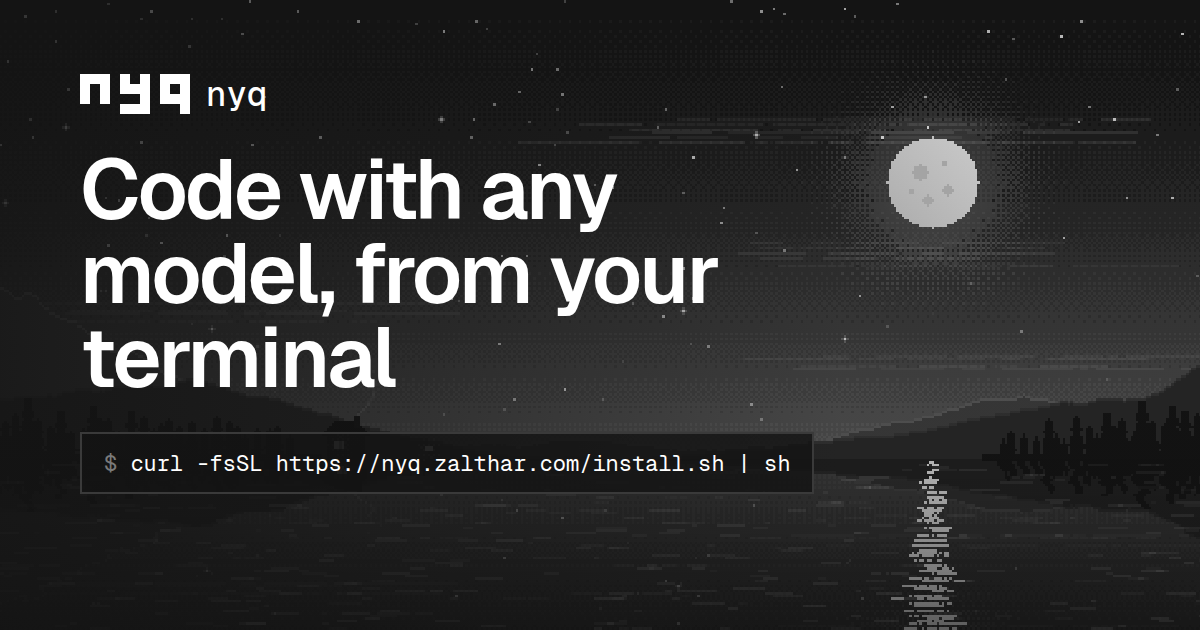
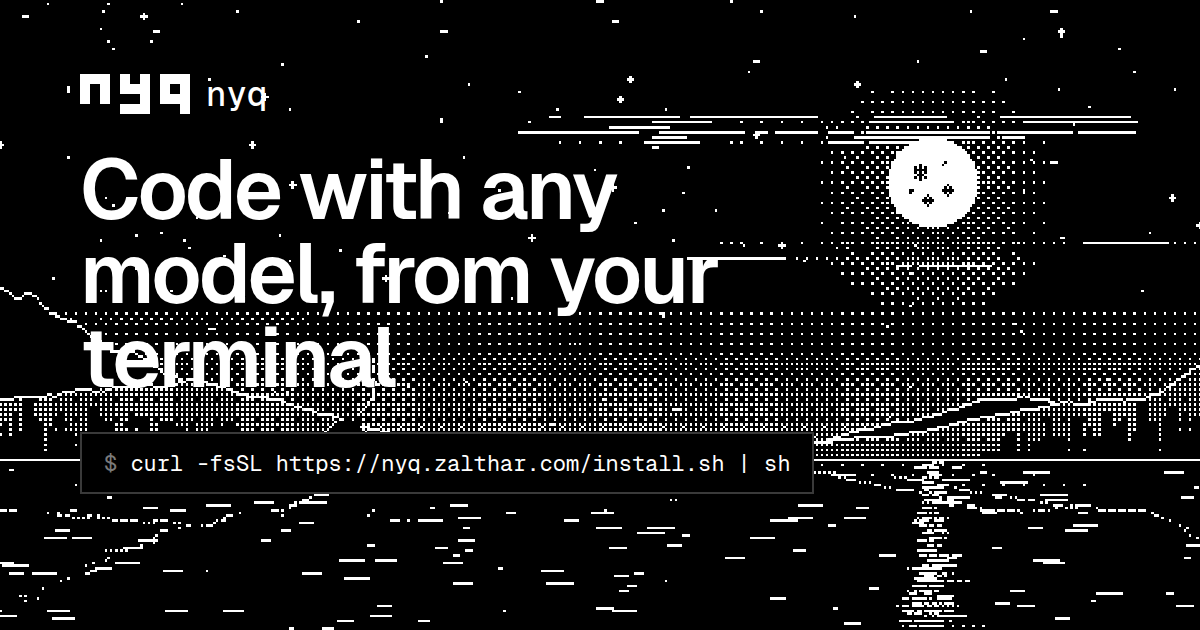
style(www): keep the website black and white
Pixel art is now 1-bit (solid shapes, ordered dither only for glows and the
horizon), surfaces and accents are pure black or white, and the translucent
fades and overlays that produced grays are gone.

diff --git a/www/src/styles/global.css b/www/src/styles/global.css
@@ -8,23 +8,23 @@
 
   /* Dark theme (the default). Light values are below, outside @theme. */
   --color-bg: #000000;
-  --color-surface: #181818;
-  --color-raised: #1f1f1f;
+  --color-surface: #000000;
+  --color-raised: #000000;
   --color-line: #272727;
   --color-line-strong: #313131;
 
   --color-fg: #ffffff;
-  --color-fg-hover: #e6e6e6;
+  --color-fg-hover: #ffffff;
   --color-muted: #9b9b9b;
   --color-faint: #6b6b6b;
 
-  /* Accent tones. The site is grayscale, so these are grays named after the
-     terminal colors they stand in for (diff additions bright, removals dim). */
-  --color-nyq-blue: #d4d4d4;
-  --color-nyq-green: #e5e5e5;
-  --color-nyq-red: #7d7d7d;
-  --color-nyq-yellow: #b8b8b8;
-  --color-nyq-magenta: #c6c6c6;
+  /* Accent tones. The site is black and white, so every accent is the
+     foreground color; the names match the terminal colors they stand in for. */
+  --color-nyq-blue: #ffffff;
+  --color-nyq-green: #ffffff;
+  --color-nyq-red: #ffffff;
+  --color-nyq-yellow: #ffffff;
+  --color-nyq-magenta: #ffffff;
 
   --ease-base: cubic-bezier(0.22, 1, 0.36, 1);
 }
@@ -36,56 +36,56 @@
  */
 :root[data-theme="light"] {
   --color-bg: #ffffff;
-  --color-surface: #f5f5f5;
-  --color-raised: #ebebeb;
+  --color-surface: #ffffff;
+  --color-raised: #ffffff;
   --color-line: #e2e2e2;
   --color-line-strong: #cfcfcf;
-  --color-fg: #0a0a0a;
-  --color-fg-hover: #2b2b2b;
+  --color-fg: #000000;
+  --color-fg-hover: #000000;
   --color-muted: #525252;
   --color-faint: #707070;
-  --color-nyq-blue: #262626;
-  --color-nyq-green: #171717;
-  --color-nyq-red: #6e6e6e;
-  --color-nyq-yellow: #4a4a4a;
-  --color-nyq-magenta: #3a3a3a;
+  --color-nyq-blue: #000000;
+  --color-nyq-green: #000000;
+  --color-nyq-red: #000000;
+  --color-nyq-yellow: #000000;
+  --color-nyq-magenta: #000000;
   color-scheme: light;
 }
 @media (prefers-color-scheme: light) {
   :root:not([data-theme]) {
     --color-bg: #ffffff;
-    --color-surface: #f5f5f5;
-    --color-raised: #ebebeb;
+    --color-surface: #ffffff;
+    --color-raised: #ffffff;
     --color-line: #e2e2e2;
     --color-line-strong: #cfcfcf;
-    --color-fg: #0a0a0a;
-    --color-fg-hover: #2b2b2b;
+    --color-fg: #000000;
+    --color-fg-hover: #000000;
     --color-muted: #525252;
     --color-faint: #707070;
-    --color-nyq-blue: #262626;
-    --color-nyq-green: #171717;
-    --color-nyq-red: #6e6e6e;
-    --color-nyq-yellow: #4a4a4a;
-    --color-nyq-magenta: #3a3a3a;
+    --color-nyq-blue: #000000;
+    --color-nyq-green: #000000;
+    --color-nyq-red: #000000;
+    --color-nyq-yellow: #000000;
+    --color-nyq-magenta: #000000;
     color-scheme: light;
   }
 }
 :root[data-theme="dark"] { color-scheme: dark; }
 .theme-dark {
   --color-bg: #000000;
-  --color-surface: #181818;
-  --color-raised: #1f1f1f;
+  --color-surface: #000000;
+  --color-raised: #000000;
   --color-line: #272727;
   --color-line-strong: #313131;
   --color-fg: #ffffff;
-  --color-fg-hover: #e6e6e6;
+  --color-fg-hover: #ffffff;
   --color-muted: #9b9b9b;
   --color-faint: #6b6b6b;
-  --color-nyq-blue: #d4d4d4;
-  --color-nyq-green: #e5e5e5;
-  --color-nyq-red: #7d7d7d;
-  --color-nyq-yellow: #b8b8b8;
-  --color-nyq-magenta: #c6c6c6;
+  --color-nyq-blue: #ffffff;
+  --color-nyq-green: #ffffff;
+  --color-nyq-red: #ffffff;
+  --color-nyq-yellow: #ffffff;
+  --color-nyq-magenta: #ffffff;
   color: var(--color-fg);
 }
 
@@ -245,14 +245,7 @@
   font-family: var(--font-mono); font-size: 0.8em; color: var(--color-fg);
   border: 1px solid var(--color-line-strong); border-bottom-width: 2px; padding: 0.05em 0.4em; background: var(--color-raised);
 }
-.docs .astro-code, .docs .astro-code span { color: var(--shiki-dark); }
-:root[data-theme="light"] .docs .astro-code,
-:root[data-theme="light"] .docs .astro-code span { color: var(--shiki-light); }
-@media (prefers-color-scheme: light) {
-  :root:not([data-theme]) .docs .astro-code,
-  :root:not([data-theme]) .docs .astro-code span { color: var(--shiki-light); }
-}
-.docs .astro-code { filter: grayscale(1); }
+.docs .astro-code, .docs .astro-code span { color: var(--color-fg) !important; }
 /* Code blocks get a header bar (language and copy) from the docs page script. */
 .docs .code {
   border: 1px solid var(--color-line); background: var(--color-surface);

diff --git a/www/scripts/og.html b/www/scripts/og.html
@@ -3,17 +3,16 @@
 <html><head><meta charset="utf-8"><style>
 @font-face { font-family: Geist; src: url("../node_modules/@fontsource-variable/geist/files/geist-latin-wght-normal.woff2") format("woff2"); font-weight: 100 900; }
 @font-face { font-family: GeistMono; src: url("../node_modules/@fontsource-variable/geist-mono/files/geist-mono-latin-wght-normal.woff2") format("woff2"); font-weight: 100 900; }
-body { margin: 0; width: 1200px; height: 630px; color: #fff; font-family: Geist; position: relative; overflow: hidden; background: #141414; }
-img { position: absolute; inset: 0; width: 100%; height: 100%; object-fit: cover; object-position: 62% 100%; image-rendering: pixelated; }
-.shade { position: absolute; inset: 0; background: linear-gradient(to right, rgb(20 20 20 / 0.85), rgb(20 20 20 / 0.2) 70%); }
+body { margin: 0; width: 1200px; height: 630px; color: #fff; font-family: Geist; position: relative; overflow: hidden; background: #000000; }
+img { position: absolute; inset: 0; width: 100%; height: 100%; object-fit: cover; object-position: 62% 30%; image-rendering: pixelated; }
+.shade { position: absolute; inset: 0; background: linear-gradient(to right, rgb(0 0 0 / 0.85), rgb(0 0 0 / 0.2) 70%); }
 main { position: absolute; inset: 0; padding: 72px 80px; display: flex; flex-direction: column; gap: 32px; }
 .mark { display: flex; align-items: center; gap: 16px; font: 500 34px GeistMono; }
 h1 { margin: 0; font-size: 84px; line-height: 1; font-weight: 600; letter-spacing: -0.03em; max-width: 760px; }
-.cmd { font: 400 22px/30px GeistMono; border: 2px solid #3a3a3a; background: rgb(20 20 20 / 0.85); padding: 14px 22px; width: fit-content; }
+.cmd { font: 400 22px/30px GeistMono; border: 2px solid #3a3a3a; background: #000; padding: 14px 22px; width: fit-content; }
 .cmd span { color: #7a7a7a; }
 </style></head><body>
 <img src="../public/art/hero.png" alt="">
-<div class="shade"></div>
 <main>
 <div class="mark"><svg viewBox="0 0 11 4" width="110" height="40" shape-rendering="crispEdges" fill="#fff"><path d="M0 0h3v1H0zM4 0h1v1H4zM6 0h1v1H6zM8 0h3v1H8zM0 1h1v1H0zM2 1h1v1H2zM4 1h3v1H4zM8 1h1v1H8zM10 1h1v1h-1zM0 2h1v1H0zM2 2h1v1H2zM6 2h1v1H6zM8 2h3v1H8zM4 3h3v1H4zM10 3h1v1h-1z"/></svg>nyq</div>
 <h1>Code with any model, from your terminal</h1>
